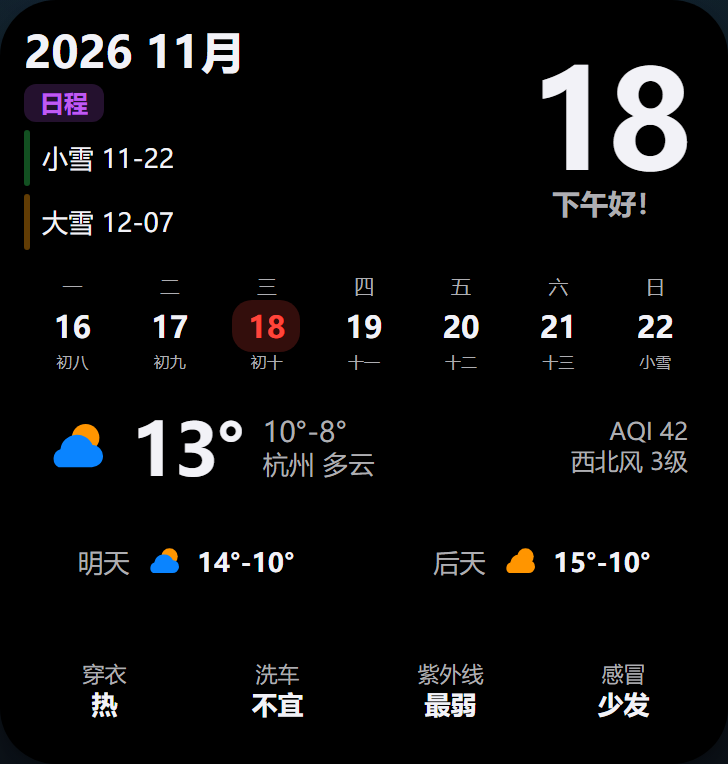
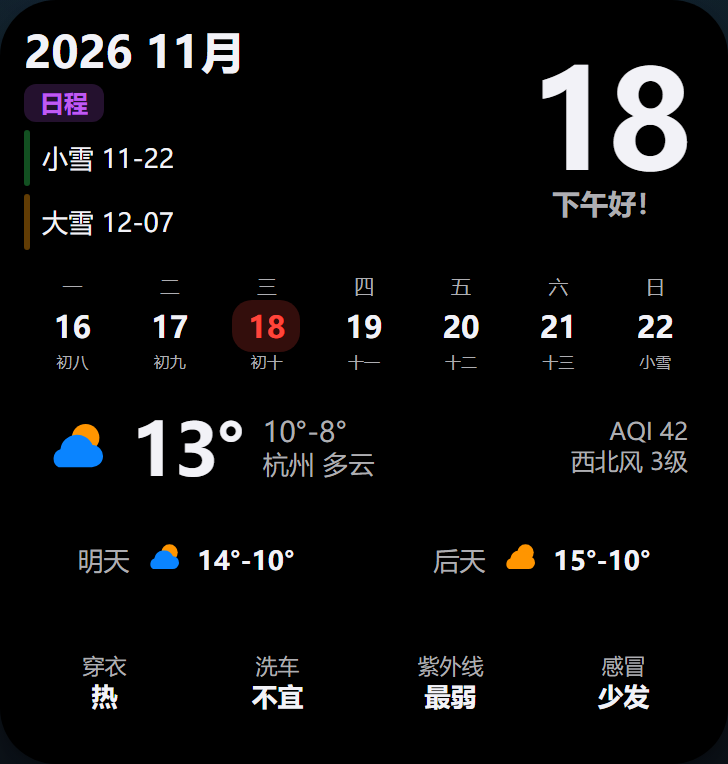
Increase large widget bottom padding

diff --git a/widget.tsx b/widget.tsx
@@ -1203,7 +1203,11 @@ function LargeWidget({ model, name }: { model: WeatherModel; name: string }) {
     : 0
 
   return (
-    <VStack alignment="leading" spacing={6} padding={12}>
+    <VStack
+      alignment="leading"
+      spacing={6}
+      padding={{ horizontal: 12, top: 12, bottom: 20 }}
+    >
       <HStack alignment="center" spacing={4}>
         <VStack alignment="leading" spacing={4} frame={{ width: 120 }}>
           <Text font={22} fontWeight="bold" foregroundStyle={C.text} lineLimit={1}>
